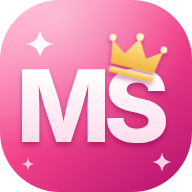
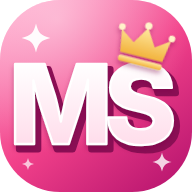
Ícone com letras 3D mais chamativas
Claude-Session: https://claude.ai/code/session_01Jf1jNJdkTk3N6YZyyR6Hu3

Changed region(s): [[0.0625, 0.0938, 0.9375, 0.8125]]

diff --git a/index.html b/index.html
@@ -9,7 +9,7 @@
 <link rel="icon" type="image/png" href="icon-192.png">
 <link rel="apple-touch-icon" href="apple-touch-icon.png">
 <style>:root{color-scheme:light}html,body{margin:0}body{font-family:system-ui,sans-serif}[hidden]{display:none!important}img{max-width:100%}</style>
-<script>window.MM_VER="1794254705";</script>
+<script>window.MM_VER="1794254762";</script>
 <script src="supabase.js"></script>
 <script>window.sb=supabase.createClient("https://tobdkptlewiwemafphyf.supabase.co","eyJhbGciOiJIUzI1NiIsInR5cCI6IkpXVCJ9.eyJpc3MiOiJzdXBhYmFzZSIsInJlZiI6InRvYmRrcHRsZXdpd2VtYWZwaHlmIiwicm9sZSI6ImFub24iLCJpYXQiOjE3OTQxNDc1NTYsImV4cCI6MjEwOTcyMzU1Nn0.du1wM-BLPDdWwL1jofBVwTh7lJbzHz2nEXdf1Gl1BJo",{auth:{persistSession:true,autoRefreshToken:true,detectSessionInUrl:true}});</script>
 </head><body>
@@ -452,7 +452,7 @@ nav button.fab[aria-current="page"],:root:not([data-tema=suave]) nav button.fab[
 
 <div class="app">
   <header>
-    <div class="brand"><svg class="logo" viewBox="0 0 48 48" aria-hidden="true"><defs><linearGradient id="bH" x1=".1" y1="0" x2=".9" y2="1"><stop offset="0" stop-color="#FF9CC4"/><stop offset=".5" stop-color="#F2418A"/><stop offset="1" stop-color="#B8156F"/></linearGradient><linearGradient id="wH" x1="0" y1="0" x2="0" y2="1"><stop offset="0" stop-color="#fff"/><stop offset="1" stop-color="#FFDDEB"/></linearGradient><linearGradient id="gH" x1="0" y1="0" x2="0" y2="1"><stop offset="0" stop-color="#FFE9A0"/><stop offset="1" stop-color="#F2B33D"/></linearGradient><radialGradient id="hH" cx=".3" cy=".1" r=".7"><stop offset="0" stop-color="#fff" stop-opacity=".45"/><stop offset="1" stop-color="#fff" stop-opacity="0"/></radialGradient><filter id="sH" x="-20%" y="-20%" width="140%" height="150%"><feDropShadow dx="0" dy=".9" stdDeviation=".7" flood-color="#7A0B45" flood-opacity=".45"/></filter></defs><rect width="48" height="48" rx="15" fill="url(#bH)"/><rect width="48" height="48" rx="15" fill="url(#hH)"/><g filter="url(#sH)"><path fill="url(#wH)" d="M5.5 35.5H9.82V27.66C9.82 26.31 9.71 23.45 9.66 21.06C10.29 23.62 11.03 26.32 11.46 27.66L14.08 35.5H17.68L20.27 27.66C20.71 26.27 21.48 23.45 22.08 20.85C22.03 23.31 21.92 26.28 21.92 27.66V35.5H26.25V17.31H19.53L17.24 24.39C16.88 25.64 16.32 28.25 15.9 30.42C15.47 28.25 14.91 25.64 14.53 24.39L12.21 17.31H5.5Z"/><path fill="url(#wH)" d="M34.31 35.74C38.81 35.74 41.5 33.68 41.5 30.23C41.5 27.32 39.46 25.56 35.94 24.79L34.37 24.43C32.75 24.06 31.68 23.52 31.68 22.4C31.68 21.39 32.58 20.64 34.3 20.64C36.03 20.64 36.99 21.41 37.12 22.73H41.25C41.21 19.36 38.52 17.07 34.31 17.07C30.18 17.07 27.23 19.33 27.23 22.69C27.23 25.43 29.13 27 32.27 27.72L34.2 28.18C36.19 28.63 37.14 29.18 37.14 30.21C37.14 31.37 36.04 32.17 34.26 32.17C32.29 32.17 30.99 31.26 30.89 29.49H26.75C26.83 33.69 29.76 35.74 34.31 35.74Z"/></g><g transform="translate(33.8 14.2) rotate(14) scale(.92)" filter="url(#sH)"><path fill="url(#gH)" d="M-6 3.2 L-7 -3 L-3 -.2 L0 -5 L3 -.2 L7 -3 L6 3.2 Z"/><rect x="-6.2" y="4" width="12.4" height="1.6" rx=".6" fill="url(#gH)"/><circle cx="0" cy="-5.6" r="1" fill="#FFF3C9"/><circle cx="-7.1" cy="-3.7" r=".9" fill="#FFF3C9"/><circle cx="7.1" cy="-3.7" r=".9" fill="#FFF3C9"/></g><path transform="translate(10 11) scale(1.15)" fill="#fff" opacity="0.95" d="M0 -3 C.5 -1 1 -.5 3 0 C1 .5 .5 1 0 3 C-.5 1 -1 .5 -3 0 C-1 -.5 -.5 -1 0 -3Z"/><path transform="translate(40.5 40.5) scale(0.8)" fill="#fff" opacity="0.8" d="M0 -3 C.5 -1 1 -.5 3 0 C1 .5 .5 1 0 3 C-.5 1 -1 .5 -3 0 C-1 -.5 -.5 -1 0 -3Z"/><path transform="translate(7 41) scale(0.5)" fill="#fff" opacity="0.7" d="M0 -3 C.5 -1 1 -.5 3 0 C1 .5 .5 1 0 3 C-.5 1 -1 .5 -3 0 C-1 -.5 -.5 -1 0 -3Z"/></svg><span class="wm">Mavie Skin</span></div>
+    <div class="brand"><svg class="logo" viewBox="0 0 48 48" aria-hidden="true"><defs><linearGradient id="bH" x1=".1" y1="0" x2=".9" y2="1"><stop offset="0" stop-color="#FF9CC4"/><stop offset=".5" stop-color="#F2418A"/><stop offset="1" stop-color="#B8156F"/></linearGradient><linearGradient id="wH" x1="0" y1="0" x2="0" y2="1"><stop offset="0" stop-color="#fff"/><stop offset="1" stop-color="#FFDDEB"/></linearGradient><linearGradient id="gH" x1="0" y1="0" x2="0" y2="1"><stop offset="0" stop-color="#FFE9A0"/><stop offset="1" stop-color="#F2B33D"/></linearGradient><radialGradient id="hH" cx=".3" cy=".1" r=".7"><stop offset="0" stop-color="#fff" stop-opacity=".45"/><stop offset="1" stop-color="#fff" stop-opacity="0"/></radialGradient><filter id="sH" x="-20%" y="-20%" width="140%" height="150%"><feDropShadow dx="0" dy=".9" stdDeviation=".7" flood-color="#7A0B45" flood-opacity=".45"/></filter></defs><rect width="48" height="48" rx="15" fill="url(#bH)"/><rect width="48" height="48" rx="15" fill="url(#hH)"/><g transform="translate(1 1.3)"><path fill="#8A0F55" stroke="#8A0F55" stroke-width="1.6" stroke-linejoin="round" d="M3.78 36H8.53V27.38C8.53 25.89 8.41 22.75 8.35 20.11C9.04 22.93 9.86 25.9 10.33 27.38L13.22 36H17.18L20.02 27.38C20.51 25.85 21.35 22.75 22.01 19.89C21.96 22.59 21.84 25.86 21.84 27.38V36H26.6V15.99H19.2L16.69 23.78C16.29 25.15 15.67 28.02 15.22 30.41C14.75 28.02 14.13 25.15 13.71 23.78L11.16 15.99H3.78Z"/><path fill="#8A0F55" stroke="#8A0F55" stroke-width="1.6" stroke-linejoin="round" d="M35.31 36.27C40.27 36.27 43.22 34 43.22 30.2C43.22 27 40.98 25.07 37.11 24.22L35.38 23.82C33.6 23.42 32.43 22.83 32.43 21.59C32.43 20.48 33.41 19.66 35.3 19.66C37.21 19.66 38.27 20.5 38.4 21.95H42.96C42.9 18.25 39.95 15.72 35.31 15.72C30.78 15.72 27.53 18.21 27.53 21.91C27.53 24.92 29.62 26.65 33.07 27.45L35.19 27.94C37.38 28.44 38.43 29.04 38.43 30.19C38.43 31.46 37.22 32.33 35.26 32.33C33.1 32.33 31.66 31.34 31.56 29.39H27C27.08 34.01 30.31 36.27 35.31 36.27Z"/></g><g filter="url(#sH)"><path fill="url(#wH)" stroke="#fff" stroke-width=".6" stroke-linejoin="round" d="M3.78 36H8.53V27.38C8.53 25.89 8.41 22.75 8.35 20.11C9.04 22.93 9.86 25.9 10.33 27.38L13.22 36H17.18L20.02 27.38C20.51 25.85 21.35 22.75 22.01 19.89C21.96 22.59 21.84 25.86 21.84 27.38V36H26.6V15.99H19.2L16.69 23.78C16.29 25.15 15.67 28.02 15.22 30.41C14.75 28.02 14.13 25.15 13.71 23.78L11.16 15.99H3.78Z"/><path fill="url(#wH)" stroke="#fff" stroke-width=".6" stroke-linejoin="round" d="M35.31 36.27C40.27 36.27 43.22 34 43.22 30.2C43.22 27 40.98 25.07 37.11 24.22L35.38 23.82C33.6 23.42 32.43 22.83 32.43 21.59C32.43 20.48 33.41 19.66 35.3 19.66C37.21 19.66 38.27 20.5 38.4 21.95H42.96C42.9 18.25 39.95 15.72 35.31 15.72C30.78 15.72 27.53 18.21 27.53 21.91C27.53 24.92 29.62 26.65 33.07 27.45L35.19 27.94C37.38 28.44 38.43 29.04 38.43 30.19C38.43 31.46 37.22 32.33 35.26 32.33C33.1 32.33 31.66 31.34 31.56 29.39H27C27.08 34.01 30.31 36.27 35.31 36.27Z"/></g><g transform="translate(36 11.4) rotate(14) scale(.9)" filter="url(#sH)"><path fill="url(#gH)" d="M-6 3.2 L-7 -3 L-3 -.2 L0 -5 L3 -.2 L7 -3 L6 3.2 Z"/><rect x="-6.2" y="4" width="12.4" height="1.6" rx=".6" fill="url(#gH)"/><circle cx="0" cy="-5.6" r="1" fill="#FFF3C9"/><circle cx="-7.1" cy="-3.7" r=".9" fill="#FFF3C9"/><circle cx="7.1" cy="-3.7" r=".9" fill="#FFF3C9"/></g><path transform="translate(9 9.5) scale(1.2)" fill="#fff" opacity="0.95" d="M0 -3 C.5 -1 1 -.5 3 0 C1 .5 .5 1 0 3 C-.5 1 -1 .5 -3 0 C-1 -.5 -.5 -1 0 -3Z"/><path transform="translate(40.5 40.5) scale(0.8)" fill="#fff" opacity="0.8" d="M0 -3 C.5 -1 1 -.5 3 0 C1 .5 .5 1 0 3 C-.5 1 -1 .5 -3 0 C-1 -.5 -.5 -1 0 -3Z"/><path transform="translate(7 41) scale(0.5)" fill="#fff" opacity="0.7" d="M0 -3 C.5 -1 1 -.5 3 0 C1 .5 .5 1 0 3 C-.5 1 -1 .5 -3 0 C-1 -.5 -.5 -1 0 -3Z"/></svg><span class="wm">Mavie Skin</span></div>
     <div class="tag" id="tag"></div>
   </header>
   <div id="ages" hidden></div>
@@ -515,7 +515,7 @@ const IC={
 };
 const ic=(n,s=20)=>`<svg class="ic" width="${s}" height="${s}" viewBox="0 0 24 24" aria-hidden="true">${IC[n]}</svg>`;
 const ICONS={hoje:ic('home',22),pele:ic('face',22),rotina:ic('routine',22),produtos:ic('bottle',22),escanear:ic('scan',22),mais:ic('more',22)};
-const LOGO=`<svg class="logo" viewBox="0 0 48 48" aria-hidden="true"><defs><linearGradient id="bL" x1=".1" y1="0" x2=".9" y2="1"><stop offset="0" stop-color="#FF9CC4"/><stop offset=".5" stop-color="#F2418A"/><stop offset="1" stop-color="#B8156F"/></linearGradient><linearGradient id="wL" x1="0" y1="0" x2="0" y2="1"><stop offset="0" stop-color="#fff"/><stop offset="1" stop-color="#FFDDEB"/></linearGradient><linearGradient id="gL" x1="0" y1="0" x2="0" y2="1"><stop offset="0" stop-color="#FFE9A0"/><stop offset="1" stop-color="#F2B33D"/></linearGradient><radialGradient id="hL" cx=".3" cy=".1" r=".7"><stop offset="0" stop-color="#fff" stop-opacity=".45"/><stop offset="1" stop-color="#fff" stop-opacity="0"/></radialGradient><filter id="sL" x="-20%" y="-20%" width="140%" height="150%"><feDropShadow dx="0" dy=".9" stdDeviation=".7" flood-color="#7A0B45" flood-opacity=".45"/></filter></defs><rect width="48" height="48" rx="15" fill="url(#bL)"/><rect width="48" height="48" rx="15" fill="url(#hL)"/><g filter="url(#sL)"><path fill="url(#wL)" d="M5.5 35.5H9.82V27.66C9.82 26.31 9.71 23.45 9.66 21.06C10.29 23.62 11.03 26.32 11.46 27.66L14.08 35.5H17.68L20.27 27.66C20.71 26.27 21.48 23.45 22.08 20.85C22.03 23.31 21.92 26.28 21.92 27.66V35.5H26.25V17.31H19.53L17.24 24.39C16.88 25.64 16.32 28.25 15.9 30.42C15.47 28.25 14.91 25.64 14.53 24.39L12.21 17.31H5.5Z"/><path fill="url(#wL)" d="M34.31 35.74C38.81 35.74 41.5 33.68 41.5 30.23C41.5 27.32 39.46 25.56 35.94 24.79L34.37 24.43C32.75 24.06 31.68 23.52 31.68 22.4C31.68 21.39 32.58 20.64 34.3 20.64C36.03 20.64 36.99 21.41 37.12 22.73H41.25C41.21 19.36 38.52 17.07 34.31 17.07C30.18 17.07 27.23 19.33 27.23 22.69C27.23 25.43 29.13 27 32.27 27.72L34.2 28.18C36.19 28.63 37.14 29.18 37.14 30.21C37.14 31.37 36.04 32.17 34.26 32.17C32.29 32.17 30.99 31.26 30.89 29.49H26.75C26.83 33.69 29.76 35.74 34.31 35.74Z"/></g><g transform="translate(33.8 14.2) rotate(14) scale(.92)" filter="url(#sL)"><path fill="url(#gL)" d="M-6 3.2 L-7 -3 L-3 -.2 L0 -5 L3 -.2 L7 -3 L6 3.2 Z"/><rect x="-6.2" y="4" width="12.4" height="1.6" rx=".6" fill="url(#gL)"/><circle cx="0" cy="-5.6" r="1" fill="#FFF3C9"/><circle cx="-7.1" cy="-3.7" r=".9" fill="#FFF3C9"/><circle cx="7.1" cy="-3.7" r=".9" fill="#FFF3C9"/></g><path transform="translate(10 11) scale(1.15)" fill="#fff" opacity="0.95" d="M0 -3 C.5 -1 1 -.5 3 0 C1 .5 .5 1 0 3 C-.5 1 -1 .5 -3 0 C-1 -.5 -.5 -1 0 -3Z"/><path transform="translate(40.5 40.5) scale(0.8)" fill="#fff" opacity="0.8" d="M0 -3 C.5 -1 1 -.5 3 0 C1 .5 .5 1 0 3 C-.5 1 -1 .5 -3 0 C-1 -.5 -.5 -1 0 -3Z"/><path transform="translate(7 41) scale(0.5)" fill="#fff" opacity="0.7" d="M0 -3 C.5 -1 1 -.5 3 0 C1 .5 .5 1 0 3 C-.5 1 -1 .5 -3 0 C-1 -.5 -.5 -1 0 -3Z"/></svg>`;
+const LOGO=`<svg class="logo" viewBox="0 0 48 48" aria-hidden="true"><defs><linearGradient id="bL" x1=".1" y1="0" x2=".9" y2="1"><stop offset="0" stop-color="#FF9CC4"/><stop offset=".5" stop-color="#F2418A"/><stop offset="1" stop-color="#B8156F"/></linearGradient><linearGradient id="wL" x1="0" y1="0" x2="0" y2="1"><stop offset="0" stop-color="#fff"/><stop offset="1" stop-color="#FFDDEB"/></linearGradient><linearGradient id="gL" x1="0" y1="0" x2="0" y2="1"><stop offset="0" stop-color="#FFE9A0"/><stop offset="1" stop-color="#F2B33D"/></linearGradient><radialGradient id="hL" cx=".3" cy=".1" r=".7"><stop offset="0" stop-color="#fff" stop-opacity=".45"/><stop offset="1" stop-color="#fff" stop-opacity="0"/></radialGradient><filter id="sL" x="-20%" y="-20%" width="140%" height="150%"><feDropShadow dx="0" dy=".9" stdDeviation=".7" flood-color="#7A0B45" flood-opacity=".45"/></filter></defs><rect width="48" height="48" rx="15" fill="url(#bL)"/><rect width="48" height="48" rx="15" fill="url(#hL)"/><g transform="translate(1 1.3)"><path fill="#8A0F55" stroke="#8A0F55" stroke-width="1.6" stroke-linejoin="round" d="M3.78 36H8.53V27.38C8.53 25.89 8.41 22.75 8.35 20.11C9.04 22.93 9.86 25.9 10.33 27.38L13.22 36H17.18L20.02 27.38C20.51 25.85 21.35 22.75 22.01 19.89C21.96 22.59 21.84 25.86 21.84 27.38V36H26.6V15.99H19.2L16.69 23.78C16.29 25.15 15.67 28.02 15.22 30.41C14.75 28.02 14.13 25.15 13.71 23.78L11.16 15.99H3.78Z"/><path fill="#8A0F55" stroke="#8A0F55" stroke-width="1.6" stroke-linejoin="round" d="M35.31 36.27C40.27 36.27 43.22 34 43.22 30.2C43.22 27 40.98 25.07 37.11 24.22L35.38 23.82C33.6 23.42 32.43 22.83 32.43 21.59C32.43 20.48 33.41 19.66 35.3 19.66C37.21 19.66 38.27 20.5 38.4 21.95H42.96C42.9 18.25 39.95 15.72 35.31 15.72C30.78 15.72 27.53 18.21 27.53 21.91C27.53 24.92 29.62 26.65 33.07 27.45L35.19 27.94C37.38 28.44 38.43 29.04 38.43 30.19C38.43 31.46 37.22 32.33 35.26 32.33C33.1 32.33 31.66 31.34 31.56 29.39H27C27.08 34.01 30.31 36.27 35.31 36.27Z"/></g><g filter="url(#sL)"><path fill="url(#wL)" stroke="#fff" stroke-width=".6" stroke-linejoin="round" d="M3.78 36H8.53V27.38C8.53 25.89 8.41 22.75 8.35 20.11C9.04 22.93 9.86 25.9 10.33 27.38L13.22 36H17.18L20.02 27.38C20.51 25.85 21.35 22.75 22.01 19.89C21.96 22.59 21.84 25.86 21.84 27.38V36H26.6V15.99H19.2L16.69 23.78C16.29 25.15 15.67 28.02 15.22 30.41C14.75 28.02 14.13 25.15 13.71 23.78L11.16 15.99H3.78Z"/><path fill="url(#wL)" stroke="#fff" stroke-width=".6" stroke-linejoin="round" d="M35.31 36.27C40.27 36.27 43.22 34 43.22 30.2C43.22 27 40.98 25.07 37.11 24.22L35.38 23.82C33.6 23.42 32.43 22.83 32.43 21.59C32.43 20.48 33.41 19.66 35.3 19.66C37.21 19.66 38.27 20.5 38.4 21.95H42.96C42.9 18.25 39.95 15.72 35.31 15.72C30.78 15.72 27.53 18.21 27.53 21.91C27.53 24.92 29.62 26.65 33.07 27.45L35.19 27.94C37.38 28.44 38.43 29.04 38.43 30.19C38.43 31.46 37.22 32.33 35.26 32.33C33.1 32.33 31.66 31.34 31.56 29.39H27C27.08 34.01 30.31 36.27 35.31 36.27Z"/></g><g transform="translate(36 11.4) rotate(14) scale(.9)" filter="url(#sL)"><path fill="url(#gL)" d="M-6 3.2 L-7 -3 L-3 -.2 L0 -5 L3 -.2 L7 -3 L6 3.2 Z"/><rect x="-6.2" y="4" width="12.4" height="1.6" rx=".6" fill="url(#gL)"/><circle cx="0" cy="-5.6" r="1" fill="#FFF3C9"/><circle cx="-7.1" cy="-3.7" r=".9" fill="#FFF3C9"/><circle cx="7.1" cy="-3.7" r=".9" fill="#FFF3C9"/></g><path transform="translate(9 9.5) scale(1.2)" fill="#fff" opacity="0.95" d="M0 -3 C.5 -1 1 -.5 3 0 C1 .5 .5 1 0 3 C-.5 1 -1 .5 -3 0 C-1 -.5 -.5 -1 0 -3Z"/><path transform="translate(40.5 40.5) scale(0.8)" fill="#fff" opacity="0.8" d="M0 -3 C.5 -1 1 -.5 3 0 C1 .5 .5 1 0 3 C-.5 1 -1 .5 -3 0 C-1 -.5 -.5 -1 0 -3Z"/><path transform="translate(7 41) scale(0.5)" fill="#fff" opacity="0.7" d="M0 -3 C.5 -1 1 -.5 3 0 C1 .5 .5 1 0 3 C-.5 1 -1 .5 -3 0 C-1 -.5 -.5 -1 0 -3Z"/></svg>`;
 const TABS=[['hoje','Hoje'],['pele','Pele'],['escanear','Escanear'],['rotina','Rotina'],['produtos','Produtos'],['mais','Mais']];
 const AGES=[['20','Até 29 anos'],['30','30 a 39 anos'],['40','40 a 49 anos'],['50','50 anos ou mais']];
 const TIERS=[['econ','Econômico'],['mid','Intermediário'],['prem','Premium']];
